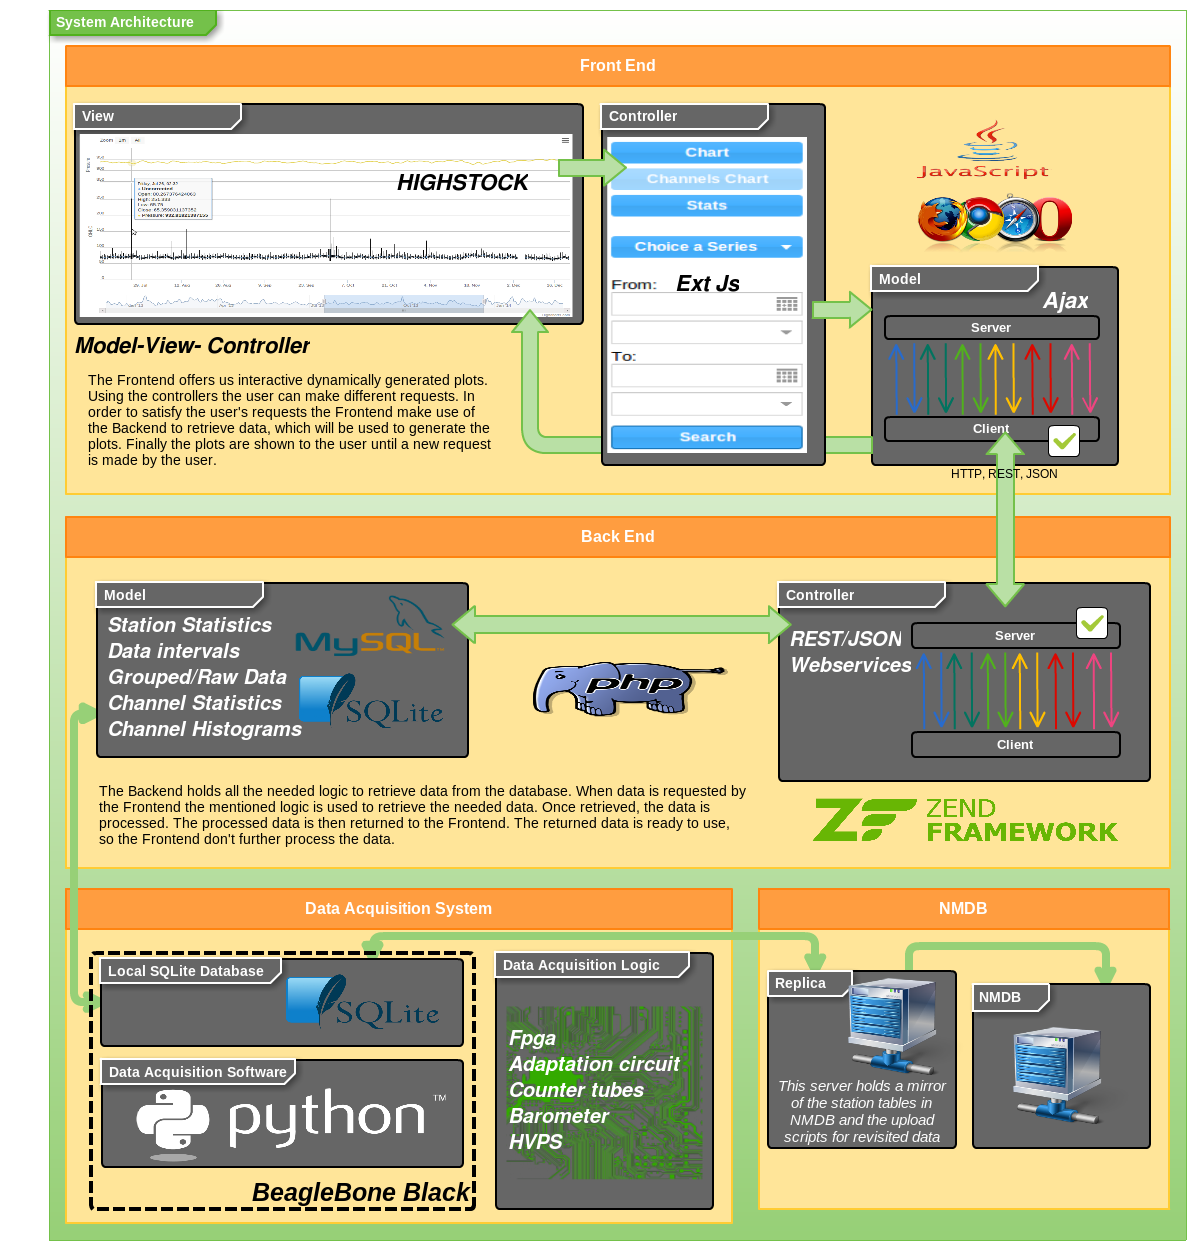
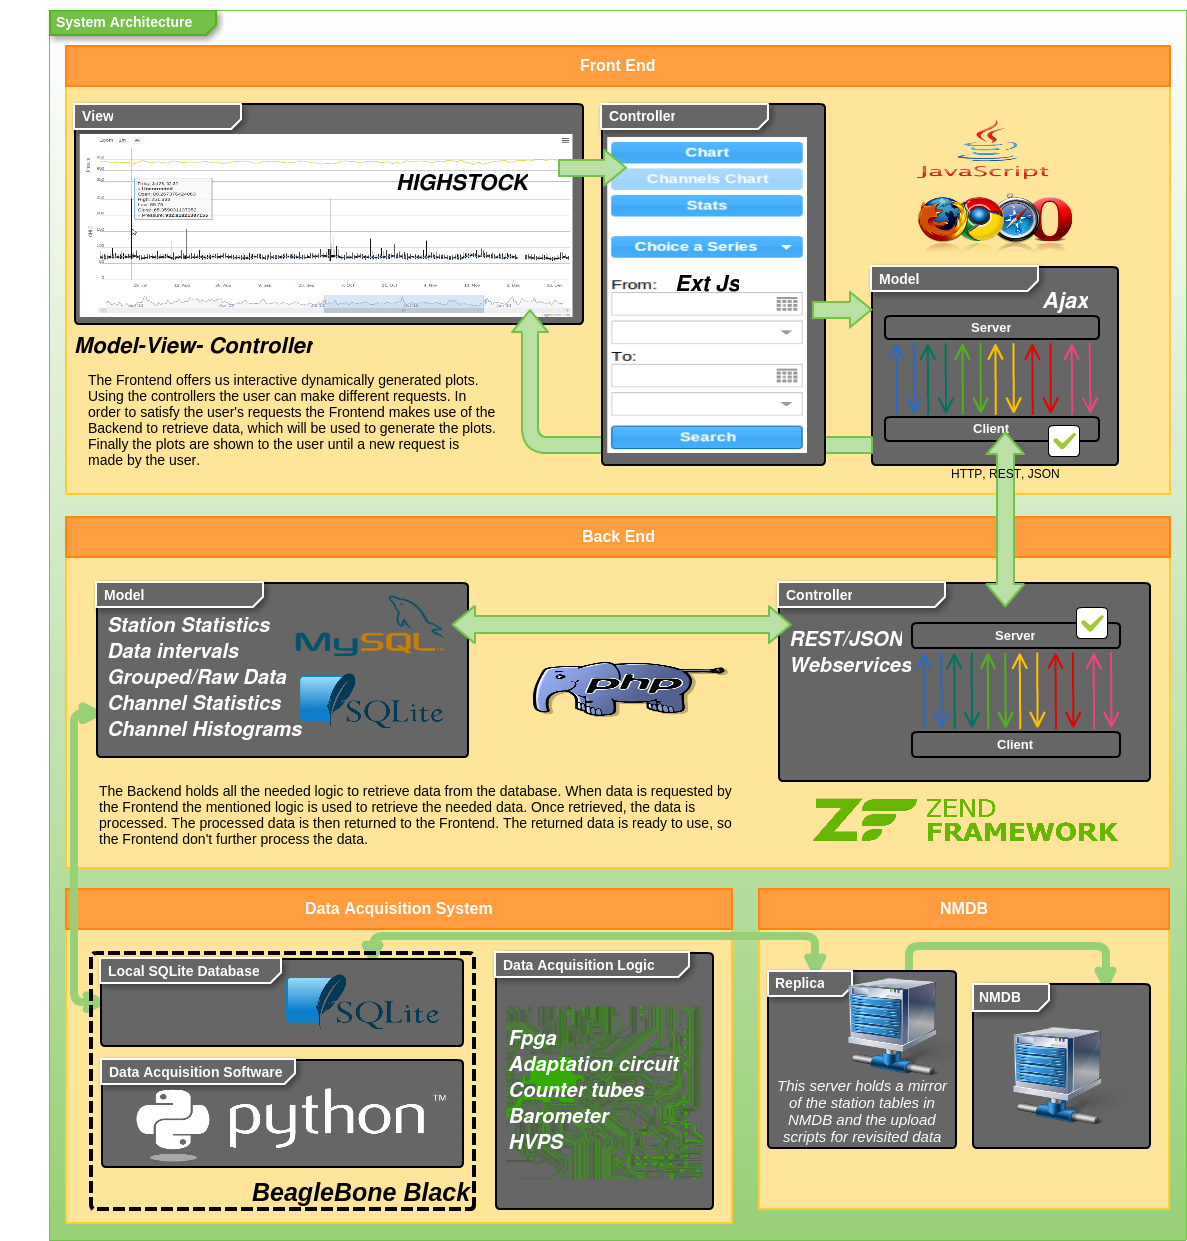
Initial revisions.

diff --git a/nmcp.tex b/nmcp.tex
@@ -8,9 +8,9 @@
 \begin{document}
 \title{The Neutron Monitor Control Panel}
 
-\author{O. García-Población$^{1,2}$, H. Ivanov$^2$, I. García-Tejedor$^{1,2}$,
-J. J. Blanco$^{1,2}$, J. Medina$^{1,2}$, R. Gómez-Herrero$^{1,2}$, E.
-Catalán$^{1,2}$ and D. Radchenko$^{2}$}
+\author{O García-Población$^{1,2}$, H Ivanov$^2$, I García-Tejedor$^{1,2}$,
+J J Blanco$^{1,2}$, J Medina$^{1,2}$, R Gómez-Herrero$^{1,2}$, E
+Catalán$^{1,2}$ and D Radchenko$^{2}$}
 
 \address{$^1$ Space Research Group, University of Alcalá, Spain}
 \address{$^2$ Castilla-La Mancha Neutron Monitor, Parque Tecnológico de Guadalajara, Spain}
@@ -22,7 +22,7 @@ Catalán$^{1,2}$ and D. Radchenko$^{2}$}
     software developed to aid the operator in typical station maintenance and
     configuration operations. This software is integrated with new the NOAS
     data acquisition system and can be accessed using a supported web browser.
-    If features a visual inspection tool to help the operator to identify
+    It features a visual inspection tool to help the operator to identify
     spikes in the data, trace the origin of the spike back to the raw readings
     of each counter tube and pressure reading, and mark the data as invalid in
     the Neutron Monitor Database if desired. The software also provide
@@ -36,26 +36,26 @@ Catalán$^{1,2}$ and D. Radchenko$^{2}$}
 Neutron Monitor data is widely used by researchers in different research fields
 not necessarily related with cosmic rays. That's why the NMBD\cite{NMDB2011}
 puts effort into delivering data with the best quality possible. The data is
-also used in real time GLE alarm systems and other real time applications
-therefore the data quality protocol must be applied in real time. Eventually
+also used in real-time GLE alarm systems and other real-time applications
+therefore the data quality protocol must be applied in real-time. Eventually
 the data will be revised by a human supervisor to ensure the correct behaviour
 of the quality protocol. By quality protocol we refer to all the methods and
 techniques used such as:
 
 \begin{itemize}
-	\item   Detection of abnormal data, commonly referred as spikes.
+    \item   Detection of abnormal data, commonly referred as spikes.
     \item   Detection of inactivity which will lead to a notification to the
         team responsible for the neutron monitor station.
-    \item   Monitor neutrons are usually formed by 18 counter tubes. A
+    \item   Neutron monitors are usually formed by 18 counter tubes. A
         malfunction in a single tube won't affect the overall value measured by
         the neutron monitor but it's not something desirable. This leads us to
         the need of monitoring and detection of malfunctions separately in each
         of the tubes.  
-    \item	Detection of changes regard of the historical activity.
+    \item   Detection of changes regard of the historical activity.
         Instrumental changes or changes in the immediate environment can cause
-        overall changes in the measured values of a monitor neutron. Detecting
+        overall changes in the measured values of a neutron monitor. Detecting
         and correcting those changes is desirable.
-    \item 	Comparing the data from one NM station with the data of different
+    \item   Comparing the data from one NM station with the data of different
         nearby NM stations. Detecting isolated events in one NM station
         indicates us that there is a malfunction in that NM station.	
 \end{itemize}
@@ -112,7 +112,7 @@ the data from the station. The next section describes this tool in detail.
 \begin{figure}[h]
     \centering
     \includegraphics[keepaspectratio, width=1\textwidth]{./resources/Architecture.png}
-    \caption{Architecture}
+    \caption{System architecture}
     \label{fig:arch}
 \end{figure}
 
@@ -143,21 +143,21 @@ data. The atmospheric pressure is also plotted, this help us to evaluate how the
 atmospheric pressure affects the measurements of our Neutron Monitor station.
 
 Once we have a spike localized, we can see the raw reading of the counter tubes.
-This allow us to better track the spike. Due to the fact that there is 18
+This allow us to better track the spike. Due to the fact that there are 18
 channels this option is available only when no data grouping is needed.
 
 As said the SpikeCorrected module is very similar to the Spike module which
 we've been explaining above. First of all, this module makes use of diferent set
 of data. The Spike module uses the raw data which proceeds from the data
-adquisition system, SpikeCorr uses the revisited data. It also gives us
-facilities to update that revisited data.
+adquisition system, SpikeCorr uses the revised data. It also gives us
+facilities to update the revised data.
 
 Clicking on a value in the char will mark the clicked data. The marked data is
-stored in a grid. The data in the grid can be later submitted to the revisited
+stored in a table. The data in the table can be later submitted to the revised 
 set of data. This means that the mentioned data will be considered invalid and
 treated as void in the future.
 
-The grid which contains the marked data can be seen on a separate window. This
+The table which contains the marked data can be seen on a separate window. This
 window can be show and hidden when needed. The window also contains all the
 controls needed for submitting and unmarking of the marked data.
 
@@ -176,7 +176,7 @@ we are working on this module.
     \centering
     \includegraphics[keepaspectratio, width=1\textwidth]{./resources/SpikeTool.png}
     \caption{Spike Tool}
-    \label{fig:arch}
+    \label{fig:tool}
 \end{figure}
 
 \section{Future work}
@@ -188,7 +188,7 @@ features are summarized bellow.
 
 \begin{description}
     \item[Online statistics] The control panel will include a module for
-        descriptive statistics that will be calculated in real time from the
+        descriptive statistics that will be calculated in real-time from the
         counter tubes raw readings. This will help to identify drifts in the
         behavior of the detectors and to apply the appropriate actions to
         maintain data quality.
@@ -203,13 +203,12 @@ features are summarized bellow.
         be possible to configure alarms and notification to recipients using
         the new push mobile technologies, for example if the station is no
         longer uploading data to NMDB or if data is out of quality standards
-    \item[Detector response histogram] A new design from the New
-        Hampshire University of the front-end amplifiers provides a pulse which
-        %Hampshire University of the front-end amplifiers provides a pulse whose %which no esta mal
+    \item[Detector response histogram] A new design from University of New
+      	Hampshire of the front-end amplifiers provides a pulse which
         width is proportional to the energy of the incident particle. The new
         FPGA IP-core running in the NOAS, the second version of our data
-        acquisition system, is able to read these pulses and to generate an
-        histogram with the distribution of the pulses energy over a given time
+        acquisition system, is able to read these pulses and to generate a
+        histogram with the distribution of the pulse energy over a given time
         interval. This will enable a mechanism for non-intrusive diagnostics of
         the counter tubes. 
 \end{description}

diff --git a/README.md b/README.md
@@ -1,0 +1,42 @@
+nmcp-article
+==
+Revisions Log Autors
+
+    Initial of the authors first name without point.
+Revisions Log Abstract
+
+    #TODO Define abbreviation NOAS.
+    Typo error: "If features"-->"It features".
+Revisions Log Introduction
+
+    #TODO Syntax error: "Neutron Monitor data is widely widely"-->"Neutron Monitor data are widely". As data are plural here I would use: "data are widely used".
+    Typo error: "real time"-->"real-time".
+    #TODO What about drifts and steps.
+    #TODO What is meant with inactivity.
+    Syntax error: "Monitor neutron"-->"Neutron monitor".
+    #TODO The abbreviation "NM" is not explicitly introduced.
+    #TODO "those malfunctions are caused by the instruments forming the data. acquisition system". Can you define what are the different components of the "data acquisition system".
+Revisions Log System Architecture
+    
+    Caption of Figure 1: "Architecture"-->"System Architecture".
+    #TODO "sanity controls" not appropriate. Maybe "sanity checks".
+    #TODO Most readers do not understand "REST-like web services".
+    #TODO Reference "Json" or give full name.
+    #TODO Introduce the abbreviation "API".
+    #TODO Figure 1. System Architecture.
+        Syntax error: "Frontend make use"-->"Frontend makes use".
+        Highstock, Ajax, PHP, ZendFramework, BeagleBone Black
+        Figure 1: In Figure 1 there are several components that are not mentioned in the text and that are probablynot known for many of the potential readers of this paper: "HIGHSTOCK", "Ajax", nice blue elephant whitch characters "php", "ZEND FRAMEWORK", "BeagleBone Black". I think that "python" is a software language and not a data acquisition software. Please help the reader to understand.
+Revisions Log Spike Tool
+
+    Syntax error: "there is 18 channels"-->"there are 18 channels".
+    "to update that revisited data"-->" to update the revisited data".
+    "grid"-->"table"
+    "revisited"-->"revised"
+Revisions Log Future Work
+
+    #TODO Define : "FPGA", "IP-core" and "NOAS".
+    #TODO Explain "non-intrusive diagnostics".
+    "New Hampshire University"-->"University of New Hampshire".
+    "generate an histogram"-->"generate a histogram".
+    "distribution of the pulses energy"-->"distribution of the pulse energy"
